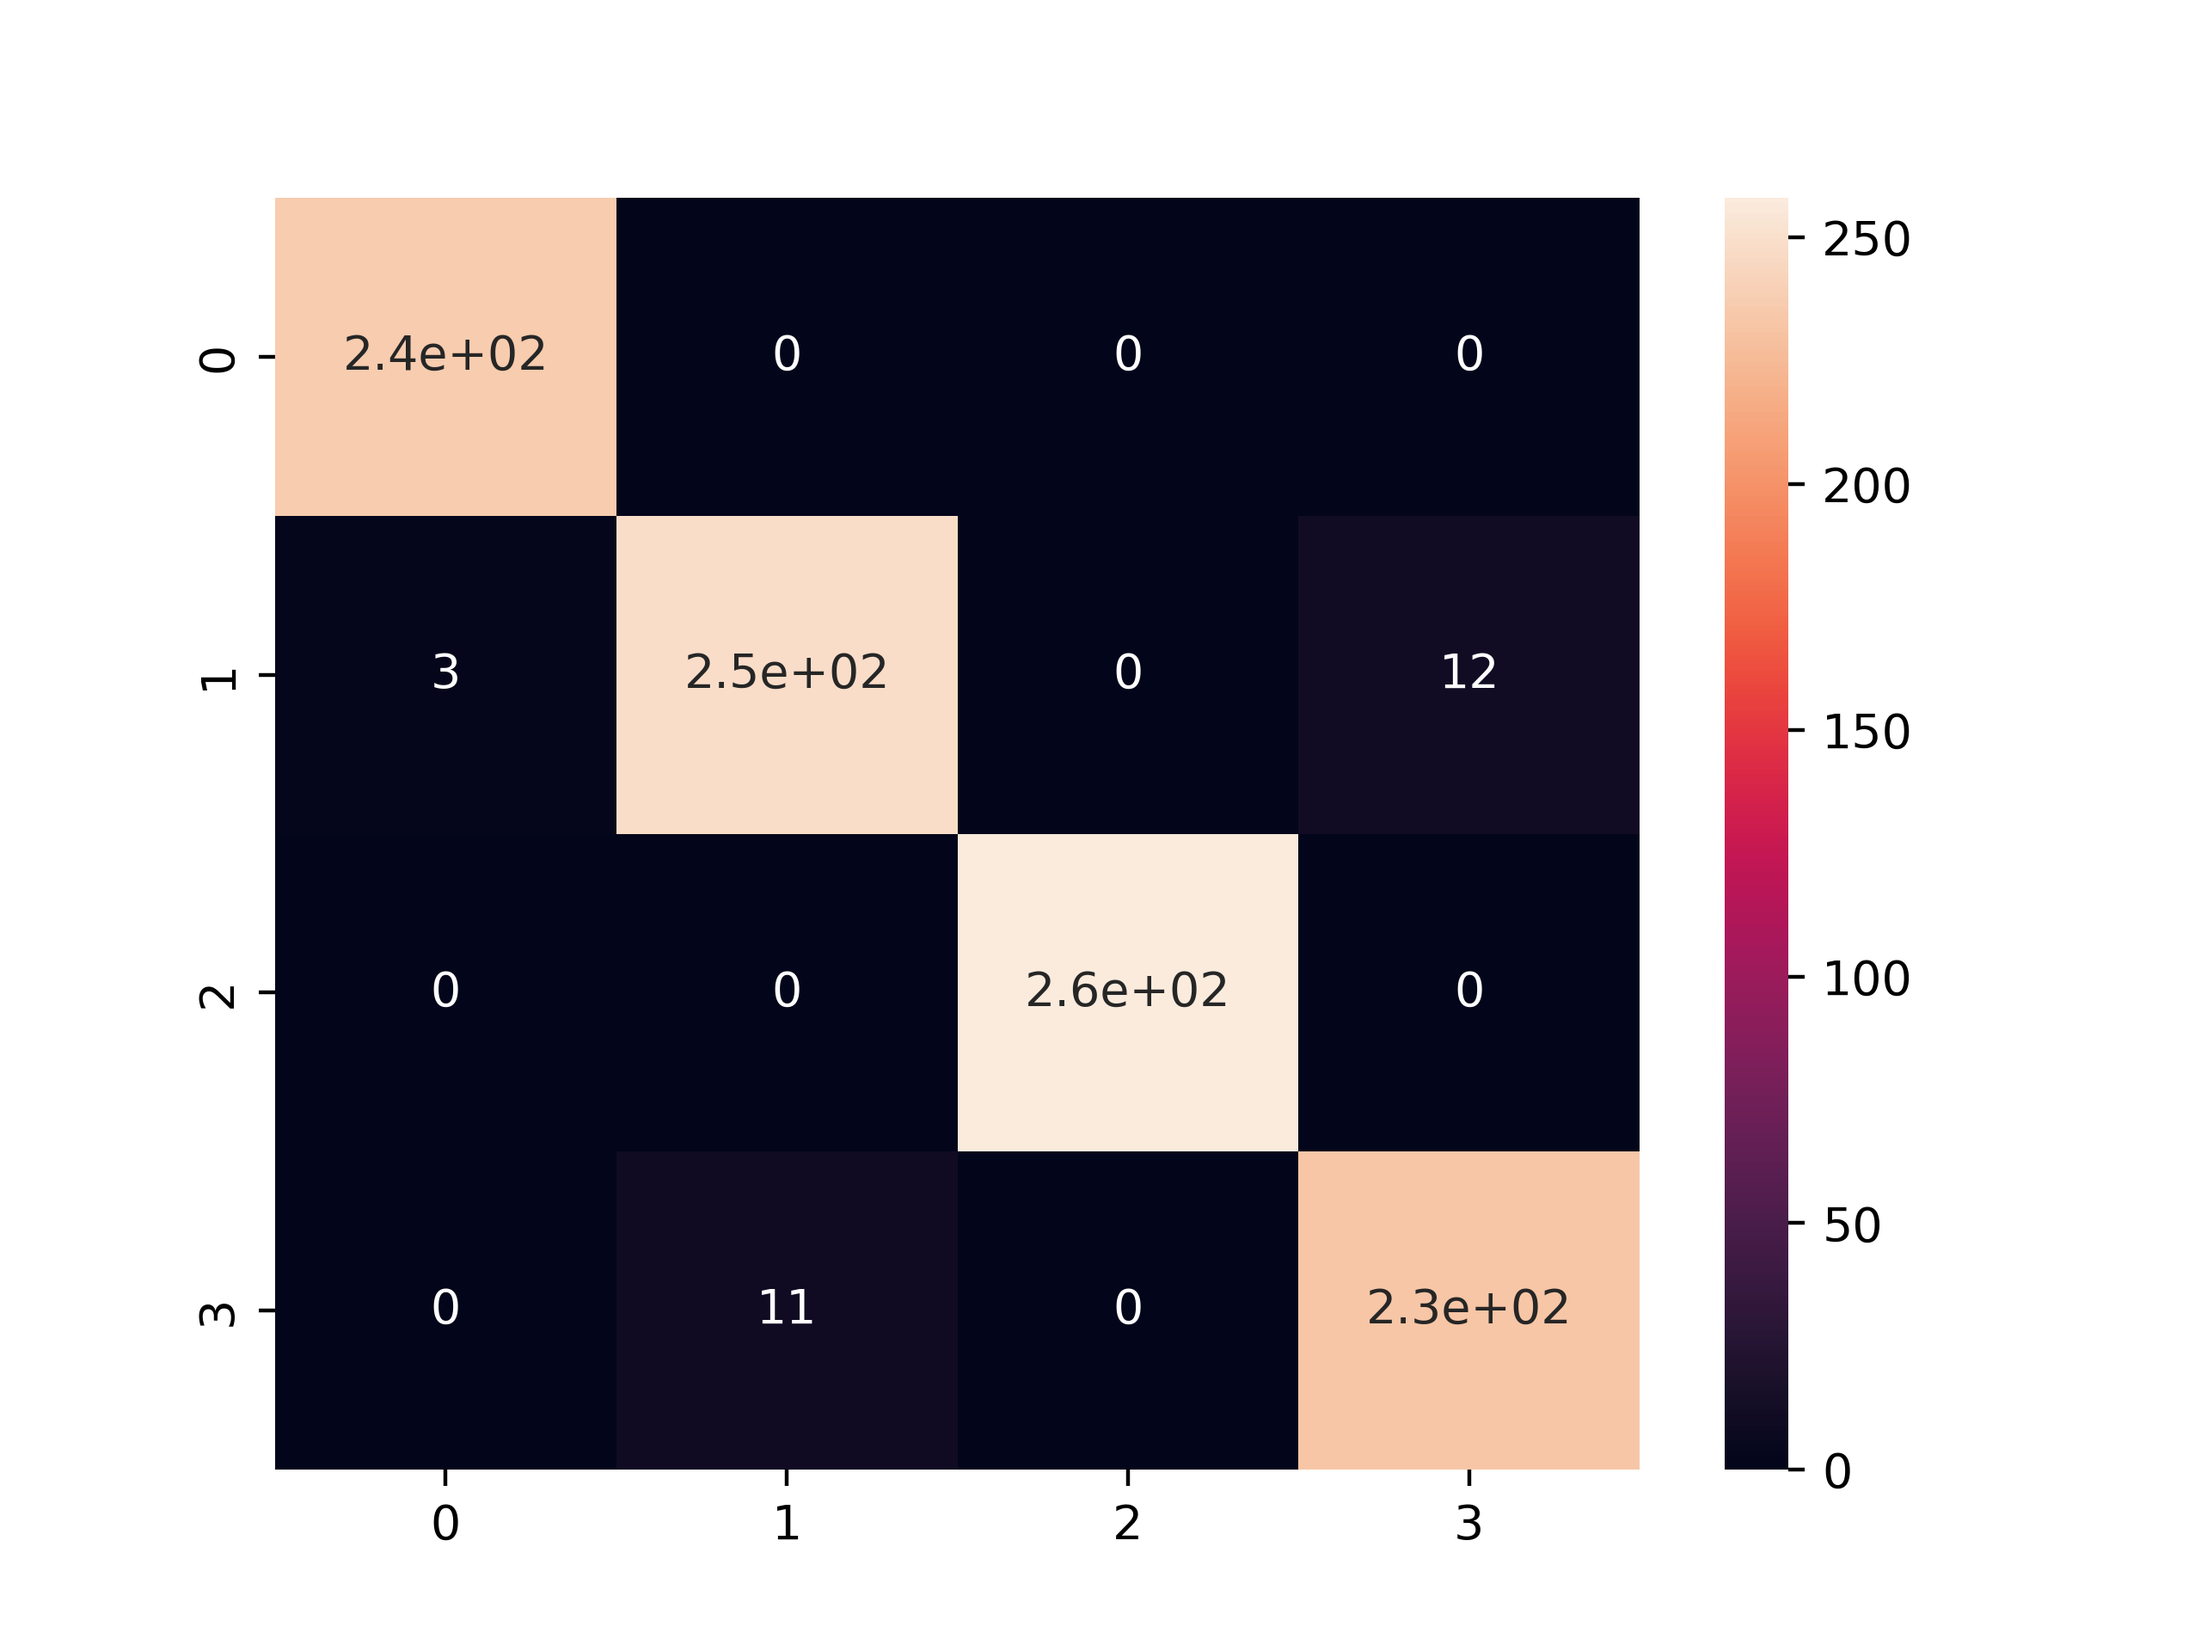
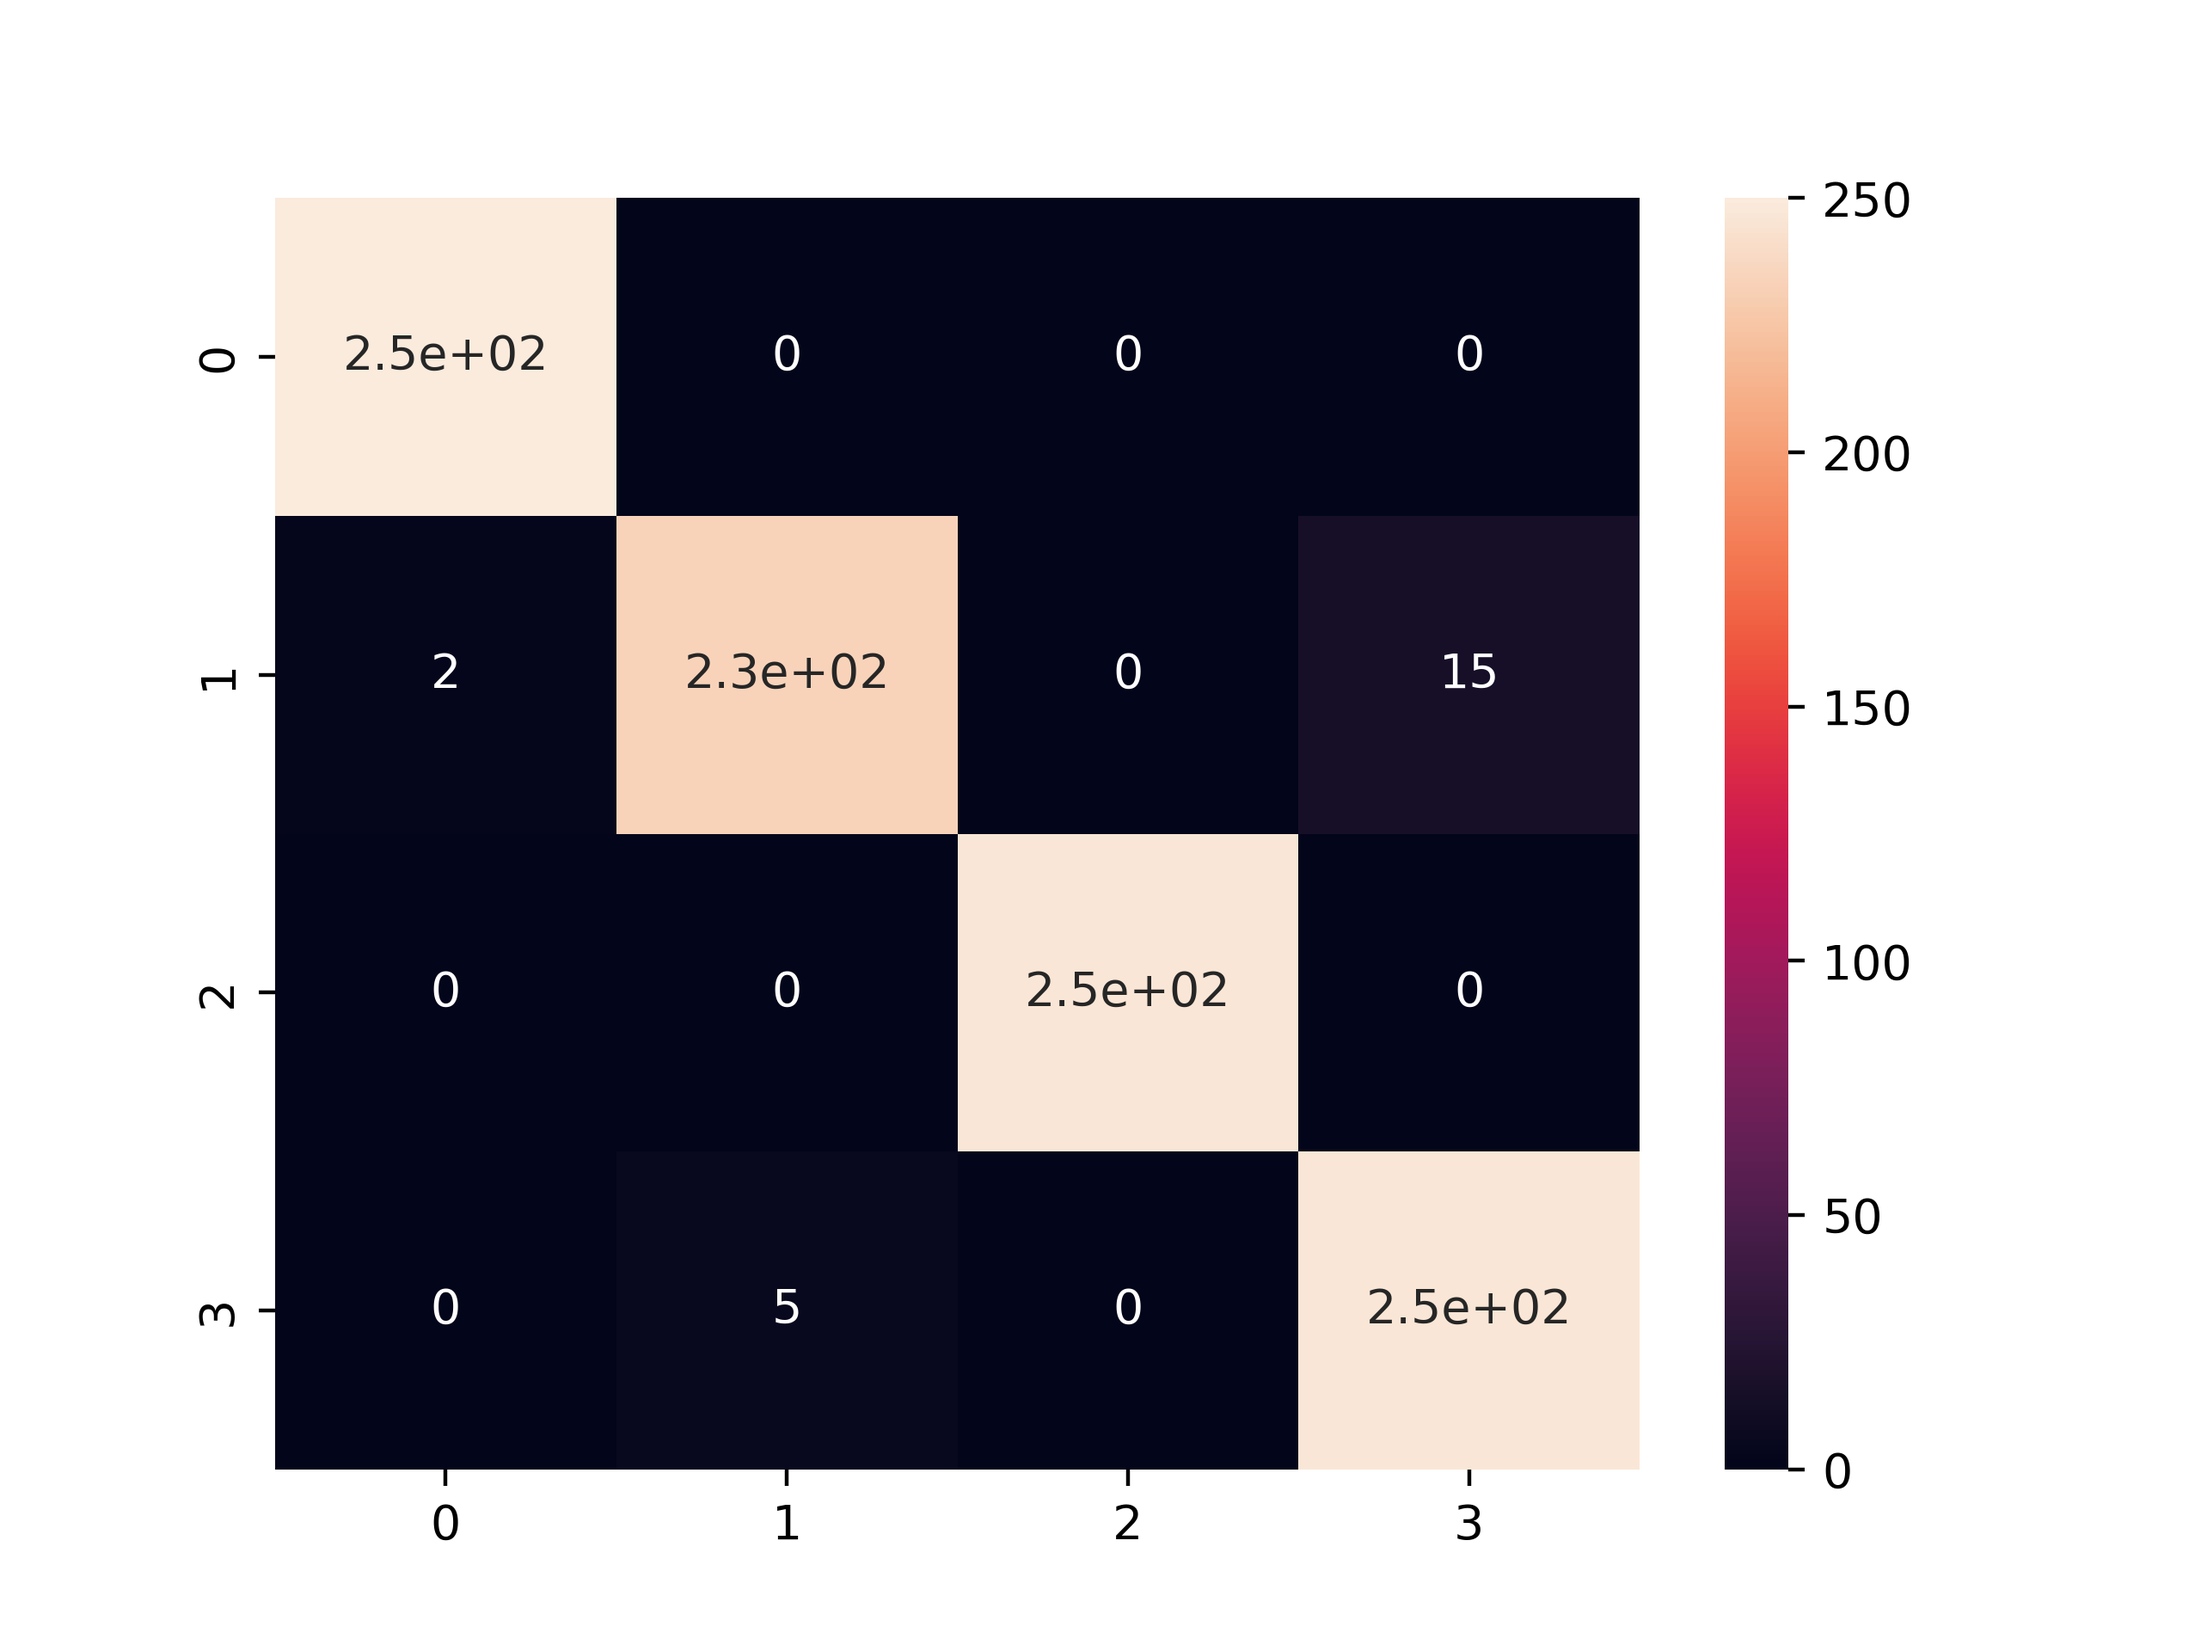
added link to writeup

diff --git a/models_tf.py b/models_tf.py
@@ -18,7 +18,6 @@ class Regularizer(tf.keras.regularizers.Regularizer):
         AAt = tf.reshape(AAt, (-1, self.dim, self.dim))
         return tf.reduce_sum(self.regVal * tf.square(AAt - self.idMat))
 
-
 class TNet_TF(tf.keras.Model):
     def __init__(self, dims=3, multiplier=1.0):
         super().__init__()
@@ -139,6 +138,6 @@ class PointNet_TF(tf.keras.Model):
         return x
 
     def accuracy(self, logits, labels):
-        print("IN ACCURACY, NUM CLASSES", self.num_classes)
+        # print("IN ACCURACY, NUM CLASSES", self.num_classes)
         correct_predictions = tf.equal(tf.argmax(logits, 1), labels)
         return tf.reduce_mean(tf.cast(correct_predictions, tf.float32))

diff --git a/main_tf.py b/main_tf.py
@@ -42,7 +42,7 @@ def testNN_tf(snow=True):
     '''
     classes = 3 if snow else 4
     # test_size = 0.2
-    num_epoch = 6
+    num_epoch = 4
     BATCH_SIZE = 128
 
     primitiveFile = 'data/fourShapeData.csv'
@@ -73,7 +73,7 @@ def testNN_tf(snow=True):
     shapeModel = 'shapeModel/shapeModel'
     modelName = snowModel if snow else shapeModel
 
-    model.save_weights(modelName)
+    # model.save_weights(modelName)
 
     preds = model.predict(test_dataset.batch(2))
 

diff --git a/README.md b/README.md
@@ -1,5 +1,9 @@
 # 3dObjectLearning
-For the full writeup, visit this link: 
+For the full writeup, visit this link: https://docs.google.com/document/d/1UVj50E6Kaw9PEmVhHH8ppt3W_tMlm4vP-7bubc3wrSo/edit?usp=sharing
+
+# Usage:
+
+
 
 # Epochs vs. Accuracy on Tensorflow Model with 3 simple objects (cone, sphere, cube)
 1 epoch: 87% training accuracy, 68% testing accuracy
